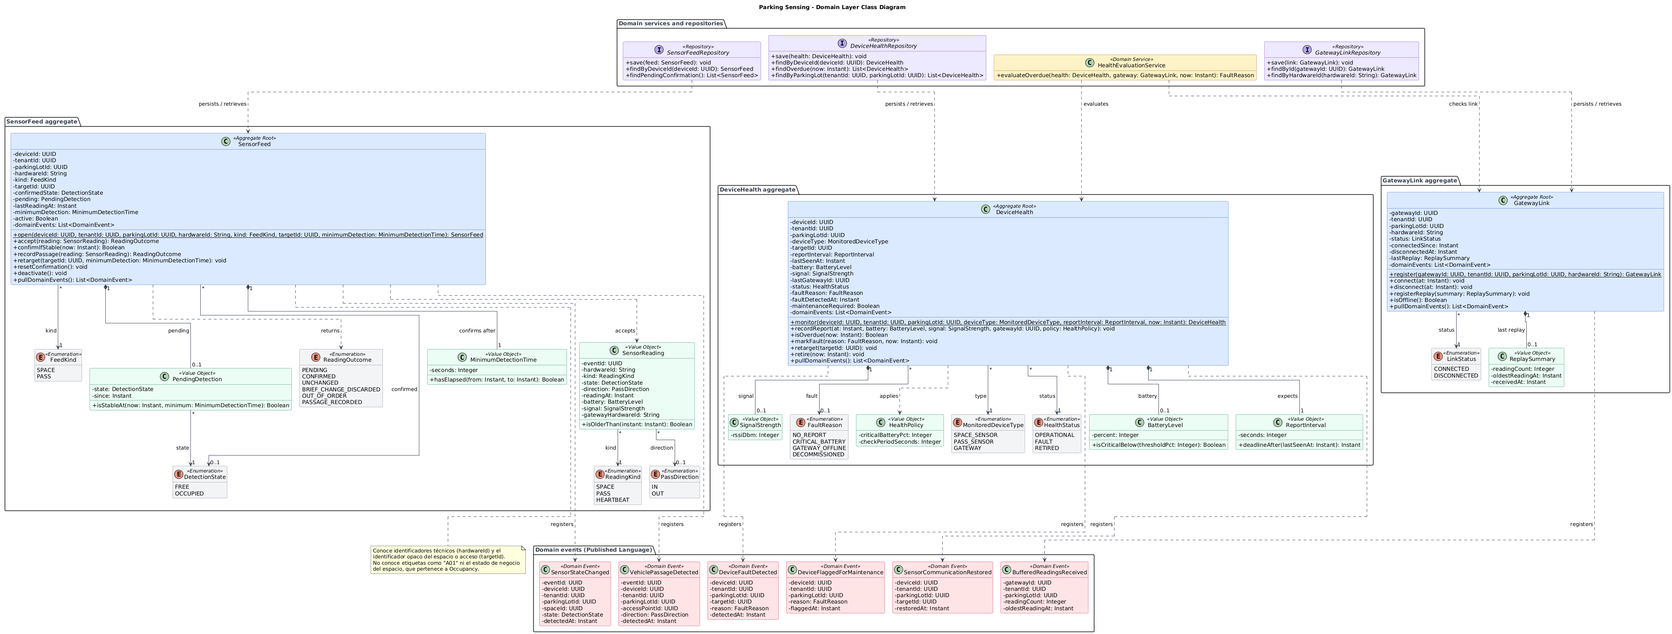
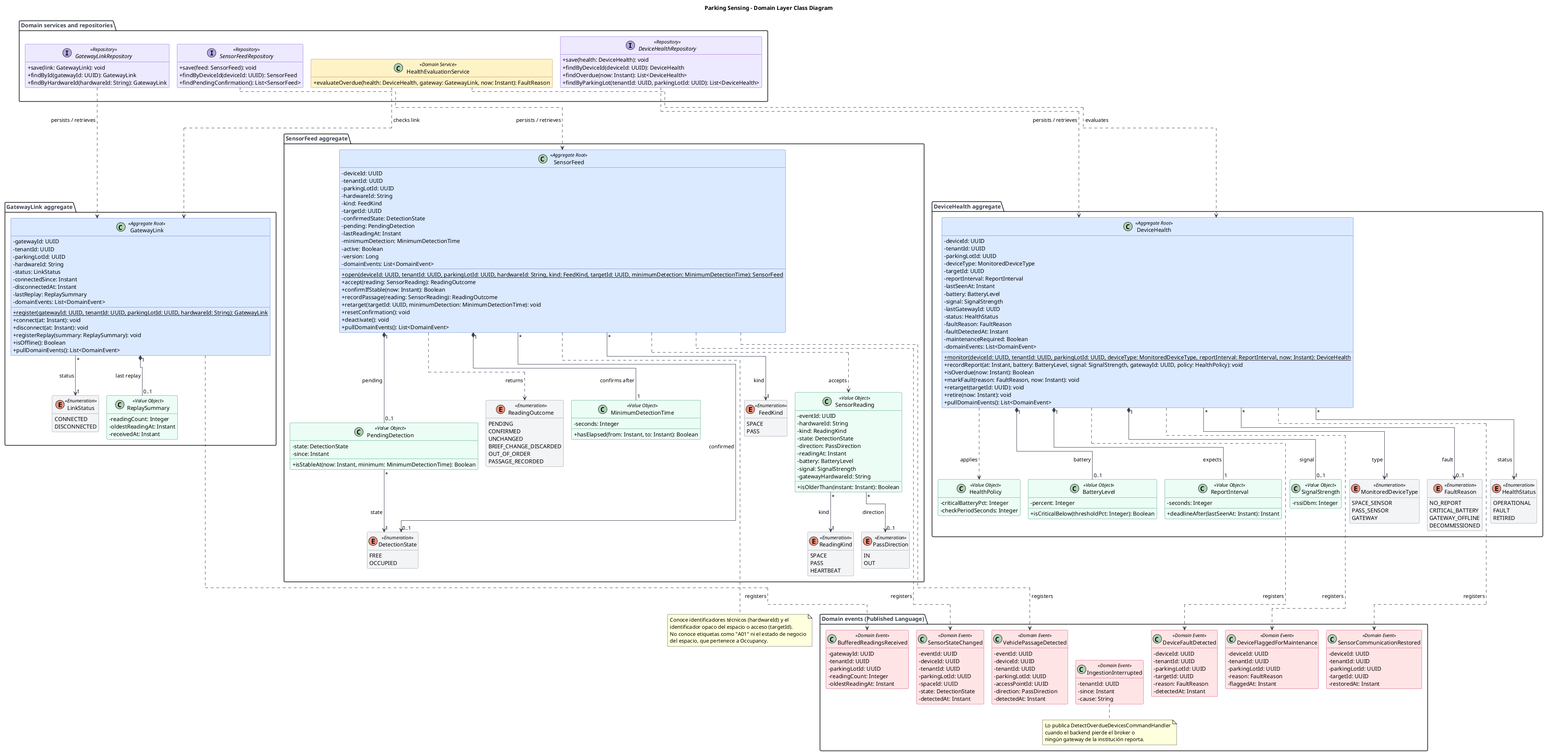
docs(chapter-05): make sensing ingestion durable and replica-safe

diff --git a/README.md b/README.md
@@ -3933,7 +3933,7 @@ El token viaja solo en el enlace del correo y en esta solicitud; IAM guarda úni
 
 |Nombre|Categoría|Evento|Descripción|
 |-|-|-|-|
-|AuditEventListener|Consumer (`@TransactionalEventListener`)|`AccessDenied` (IAM)|Ejecuta `AccessDeniedEventHandler` después de confirmar la transacción que contó el intento fallido.|
+|AuditEventListener|Consumer (`@ApplicationModuleListener`)|`AccessDenied` (IAM)|Ejecuta `AccessDeniedEventHandler` después de confirmar la transacción que contó el intento fallido.|
 
 La capa de seguridad del backend (Spring Security) valida el token, el rol y la institución antes de que la solicitud llegue al controlador (DD-08), de modo que IAM no queda en el camino de cada consulta de los demás módulos.
 
@@ -4037,7 +4037,7 @@ La Infrastructure Layer implementa los repositorios, la emisión de tokens, el c
 |HashingCodeHasher|Adapter (criptografía)|CodeHasher|`SecureRandom`, HMAC-SHA-256|Genera códigos y tokens aleatorios y calcula el hash de los códigos de un solo uso, de los tokens guardados y de los secretos de plataforma.|
 |EmailGatewayAdapter|Adapter (anti-corruption)|EmailSender|Cliente HTTP del servicio de correo, Resilience4j|Capa anticorrupción hacia el servicio de correo externo; aísla el modelo del proveedor del dominio y permite reemplazarlo (CON-03, CON-06). Si el proveedor falla, no se afecta la consulta de disponibilidad ni la predicción.|
 |PersistentAuditLog|Adapter (persistencia)|AuditLog|Spring Data JPA, PostgreSQL|Guarda en `audit_log` los accesos rechazados (401, 403 y 429), incluidos los `AccessDenied` del inicio de sesión, sin almacenar datos personales innecesarios.|
-|IamEventPublisherAdapter|Adapter (eventos)|IamEventPublisher|Eventos de aplicación de Spring|Publica los eventos de dominio; los consumidores, como el de `TenantProvisioned` en Parking Configuration, los reciben con `@TransactionalEventListener` después de confirmar la transacción.|
+|IamEventPublisherAdapter|Adapter (eventos)|IamEventPublisher|Eventos de aplicación de Spring, registro de publicación de Spring Modulith (outbox)|Publica los eventos de dominio; los consumidores, como el de `TenantProvisioned` en Parking Configuration, los reciben con `@ApplicationModuleListener` después de confirmar la transacción.|
 |SecurityFilterChain|Configuración transversal|—|Spring Security|Valida el JWT con las claves de `JwtTokenIssuer`, el rol y la institución antes de cada controlador del backend, y registra en `AuditLog` los rechazos 401 y 403 (DD-08).|
 
 **Consideraciones**
@@ -4402,7 +4402,7 @@ Methods
 
 |Nombre|Categoría|Evento|Descripción|
 |-|-|-|-|
-|TenantProvisionedListener|Consumer (`@TransactionalEventListener`)|`TenantProvisioned` (IAM)|Envía `InitializeTenantConfigurationCommand` para crear el calendario de la institución nueva (TS15, QAS-08).|
+|TenantProvisionedListener|Consumer (`@ApplicationModuleListener`)|`TenantProvisioned` (IAM)|Envía `InitializeTenantConfigurationCommand` para crear el calendario de la institución nueva (TS15, QAS-08).|
 
 ### 5.2.3. Application Layer
 
@@ -4488,7 +4488,7 @@ La Infrastructure Layer implementa los repositorios y la publicación de eventos
 |ParkingLotRepositoryAdapter|Repository (implementación)|ParkingLotRepository|Spring Data JPA, PostgreSQL|Guarda el agregado en `parking_lots`, `parking_zones`, `parking_spaces` y `access_points`, y cada versión publicada en `layout_versions`.|
 |DeviceRepositoryAdapter|Repository (implementación)|DeviceRepository|Spring Data JPA, PostgreSQL|Guarda el agregado en `devices` y su historial en `device_assignments`. Los índices únicos parciales impiden dos asociaciones activas para el mismo sensor o el mismo espacio, aun con solicitudes simultáneas.|
 |AcademicCalendarRepositoryAdapter|Repository (implementación)|AcademicCalendarRepository|Spring Data JPA, PostgreSQL|Guarda el agregado en `academic_calendars`, `academic_periods` y `campus_events`.|
-|ConfigurationEventPublisherAdapter|Adapter (eventos)|ConfigurationEventPublisher|Eventos de aplicación de Spring|Publica los eventos de dominio. Los consumidores los reciben con `@TransactionalEventListener` después de confirmar la transacción.|
+|ConfigurationEventPublisherAdapter|Adapter (eventos)|ConfigurationEventPublisher|Eventos de aplicación de Spring, registro de publicación de Spring Modulith (outbox)|Publica los eventos de dominio. Los consumidores los reciben con `@ApplicationModuleListener` después de confirmar la transacción.|
 |TenantFilterConfiguration|Configuración transversal|—|Filtro de Hibernate|Aplica `tenant_id` del token a toda consulta del esquema (CON-08, DD-09).|
 
 **Consideraciones**
@@ -4520,7 +4520,7 @@ El diagrama descompone el módulo Parking Configuration dentro del contenedor Qu
 | Device Inventory Controller | Interface | Registro, asociación, reemplazo y baja de dispositivos. | Spring MVC `@RestController` | DeviceInventoryController |
 | Academic Calendar Controller | Interface | Periodos académicos y eventos del campus. | Spring MVC `@RestController` | AcademicCalendarController |
 | Parking Configuration Facade | Interface | Open Host Service en proceso. | Spring bean | ParkingConfigurationFacade y las vistas `*View` |
-| Tenant Provisioned Listener | Interface | Recibe `TenantProvisioned`. | `@TransactionalEventListener` | TenantProvisionedListener |
+| Tenant Provisioned Listener | Interface | Recibe `TenantProvisioned`. | `@ApplicationModuleListener` | TenantProvisionedListener |
 | Configuration Command Handlers | Application | Casos de uso de escritura y el manejador de `TenantProvisioned`. | Spring `@Service` | Commands, Command Handlers y TenantProvisionedEventHandler |
 | Configuration Query Handlers | Application | Casos de uso de lectura. | Spring `@Service` | Queries y Query Handlers |
 | Configuration Aggregates | Domain | Mantienen las invariantes de cada agregado. | Java (dominio puro) | ParkingLot, Device, AcademicCalendar, sus entidades, Value Objects y enumeraciones |
@@ -4612,7 +4612,7 @@ La Domain Layer contiene las reglas que convierten lecturas en detecciones y rep
 
 |Nombre|Categoría|Descripción|
 |-|-|-|
-|SensorFeed|Aggregate Root|Flujo de lecturas de un sensor. En un sensor de cochera, confirma los cambios de estado que se mantienen el tiempo mínimo; en un sensor de paso, registra cada paso con su dirección. Su identidad es el `deviceId` del dispositivo.|
+|SensorFeed|Aggregate Root|Flujo de lecturas de un sensor. En un sensor de cochera, confirma los cambios de estado que se mantienen el tiempo mínimo; en un sensor de paso, registra cada paso con su dirección. Su identidad es el `deviceId` del dispositivo. Usa bloqueo optimista para que dos réplicas no lo modifiquen a la vez.|
 
 Attributes
 
@@ -4627,6 +4627,7 @@ Attributes
 |confirmedState|DetectionState?|Private|Último estado confirmado; vacío hasta la primera confirmación o tras una recuperación.|
 |pending|PendingDetection?|Private|Cambio en espera de cumplir el tiempo mínimo.|
 |lastReadingAt|Instant|Private|Marca de tiempo del dispositivo de la última lectura aplicada.|
+|version|Long|Private|Versión para el bloqueo optimista. Si dos réplicas modifican el mismo sensor a la vez, una falla, no confirma el mensaje y el broker se lo reentrega.|
 |minimumDetection|MinimumDetectionTime|Private|Tiempo mínimo de detección del estacionamiento, recibido en `ParkingLayoutProvided`.|
 |active|Boolean|Private|Falso cuando el dispositivo fue dado de baja o reemplazado.|
 |domainEvents|`List<DomainEvent>`|Private|Eventos de dominio pendientes de publicación.|
@@ -4766,6 +4767,7 @@ Methods
 |SensorStateChanged|eventId, deviceId, tenantId, parkingLotId, spaceId, state (FREE u OCCUPIED), detectedAt|Occupancy, que actualiza el estado del espacio.|
 |VehiclePassageDetected|eventId, deviceId, tenantId, parkingLotId, accessPointId, direction (IN u OUT), detectedAt|Occupancy, que registra el ingreso o la salida.|
 |DeviceFaultDetected|deviceId, tenantId, parkingLotId, targetId, reason, detectedAt|Occupancy, que marca el espacio como desconocido (UNKNOWN).|
+|IngestionInterrupted|tenantId, since, cause (BROKER_DISCONNECTED o NO_GATEWAY_REPORTS)|Notifications, que avisa una sola vez a los operadores y administradores de la institución.|
 |SensorCommunicationRestored|deviceId, tenantId, parkingLotId, targetId, restoredAt|Occupancy y la consola. El espacio deja de ser desconocido con la siguiente `SensorStateChanged`, no con este evento.|
 |DeviceFlaggedForMaintenance|deviceId, tenantId, parkingLotId, reason, flaggedAt|Consola de operación, mediante la fachada.|
 |BufferedReadingsReceived|gatewayId, tenantId, parkingLotId, readingCount, oldestReadingAt|Consola de operación, mediante la fachada.|
@@ -4778,12 +4780,14 @@ Methods
 2. Una lectura de un sensor sin espacio ni acceso asociado no genera eventos de dominio y registra una incidencia de mapeo (TS04, escenario 4).
 3. Un mensaje con formato inválido se aparta en el registro de rechazados y no genera eventos (TS04, escenario 2).
 4. Cada lectura se aplica una sola vez según su `eventId` (TS06, escenario 1).
-5. Una lectura con marca de tiempo anterior a la última aplicada del mismo sensor se descarta (TS06, escenario 2).
+5. En un sensor de cochera, una lectura con marca de tiempo anterior a la última aplicada se descarta, porque prevalece el último estado (TS06, escenario 2). En un sensor de paso esta regla no se aplica: cada pase cuenta y solo se descartan los duplicados por `eventId`.
 6. Un cambio de estado se confirma solo si se mantiene durante el tiempo mínimo de detección; un cambio más breve se descarta sin emitir eventos (TS06, escenarios 3 y 4).
 7. El contexto informa presencia y dirección, nunca la identidad del vehículo ni de su conductor (CON-16).
 8. Un dispositivo sin reporte dentro de su intervalo o con batería bajo el umbral pasa a falla y se marca para mantenimiento (TS10, QAS-05).
 9. Si el dispositivo no reporta porque su gateway está desconectado, se informa GATEWAY_OFFLINE y no se marca para mantenimiento.
 10. Un dispositivo en falla se recupera con un reporte válido; el espacio deja de ser desconocido solo con la siguiente detección estable (US20, escenarios 3 y 4).
+11. Una lectura sin una hora válida del dispositivo (anterior a su registro o más de 5 minutos adelantada respecto del servidor) se aparta en el registro de rechazados. El nodo publica solo después de sincronizar su hora por NTP con el gateway.
+12. Mientras el backend no está conectado al broker, o ningún gateway de la institución reporta, no se marcan dispositivos por vencimiento del intervalo: se informa una sola interrupción de la ingesta por institución.
 11. Las lecturas que el gateway retuvo durante una desconexión se procesan con las mismas reglas de orden y duplicidad (QAS-03).
 12. El contexto no calcula ocupación ni disponibilidad, y no decide el estado UNKNOWN de un espacio.
 
@@ -4795,7 +4799,7 @@ La Interface Layer recibe las lecturas del broker MQTT, atiende las consultas de
 
 |Nombre|Categoría|Descripción|
 |-|-|-|
-|MqttInboundListener|Consumer (MQTT)|Recibe las lecturas y el estado de los gateways. Confirma cada mensaje al broker solo después de que su transacción se guardó, por lo que un fallo provoca la reentrega y no la pérdida (TS05).|
+|MqttInboundListener|Consumer (MQTT)|Recibe las lecturas y el estado de los gateways. Confirma cada mensaje al broker solo después de que su transacción se guardó, por lo que un fallo provoca la reentrega y no la pérdida (TS05). Si el procesamiento falla por un motivo distinto del formato, lo reintenta hasta 3 veces; si sigue fallando, guarda el mensaje como rechazado, registra la incidencia y lo confirma, para no bloquear la entrega de los siguientes.|
 
 Attributes
 
@@ -4895,17 +4899,18 @@ La Application Layer coordina el procesamiento de lecturas, la vigilancia de la 
 
 `ProcessSensorReadingCommandHandler`:
 
-1. Registra el `eventId` en `ReadingDeduplicationStore`; si ya existía, descarta la lectura (TS06, escenario 1).
+1. Registra el `eventId` en `ReadingDeduplicationStore`, dentro de la misma transacción que el resto del procesamiento; si ya existía, descarta la lectura (TS06, escenario 1).
 2. Resuelve el dispositivo con `DeviceDirectory`. Si no existe o fue dado de baja, registra la incidencia y termina (TS04, escenario 3). Si no tiene destino, registra la incidencia de mapeo y termina (TS04, escenario 4).
 3. Carga o abre el `SensorFeed` y aplica `accept`. Si la lectura está fuera de orden, termina (TS06, escenario 2).
 4. Registra el reporte en `DeviceHealth`, lo que puede publicar `SensorCommunicationRestored` y reiniciar la confirmación del flujo.
-5. Guarda todo en una transacción. Los eventos (`SensorStateChanged` si hubo confirmación) se publican al confirmarla, y recién entonces el listener confirma el mensaje al broker.
+5. Guarda todo en una transacción. Los eventos (`SensorStateChanged` si hubo confirmación) se guardan en el registro de publicación de Spring Modulith dentro de esa misma transacción, y recién después de confirmarla el listener confirma el mensaje al broker. Si el proceso cae antes de entregar el evento, Spring Modulith lo vuelve a publicar al reiniciar; si cae antes de confirmar el mensaje, el broker lo reentrega y se descarta como duplicado sin perder el evento.
 
 `DetectOverdueDevicesCommandHandler`:
 
-1. Obtiene los dispositivos operativos cuyo intervalo de reporte venció.
-2. Para cada uno, carga el `GatewayLink` de su último gateway y obtiene el motivo con `HealthEvaluationService.evaluateOverdue`.
-3. Marca la falla, guarda y publica `DeviceFaultDetected` y, si corresponde, `DeviceFlaggedForMaintenance`. Con una revisión cada 30 s, la falla se informa en 1 min o menos (QAS-05).
+1. Si el backend no está conectado al broker, o ningún gateway de una institución reportó durante el último intervalo, no evalúa sus dispositivos: publica una sola vez `IngestionInterrupted` para esa institución y continúa con las demás (regla 12).
+2. Obtiene los dispositivos operativos cuyo intervalo de reporte venció.
+3. Para cada uno, carga el `GatewayLink` de su último gateway y obtiene el motivo con `HealthEvaluationService.evaluateOverdue`.
+4. Marca la falla, guarda y publica `DeviceFaultDetected` y, si corresponde, `DeviceFlaggedForMaintenance`. Con una revisión cada 30 s, la falla se informa en 1 min o menos (QAS-05).
 
 **Puertos de salida**
 
@@ -4925,20 +4930,21 @@ La Infrastructure Layer contiene la conexión con el broker, la traducción de l
 
 |Nombre|Categoría|Implementa|Tecnología|Descripción|
 |-|-|-|-|-|
-|MqttInboundConfiguration|Configuración de mensajería|—|Spring Integration MQTT, cliente MQTT v5|Conexión TLS con el broker, sesión persistente (sin inicio limpio y con expiración de sesión) y QoS 1, para recibir también lo publicado durante una desconexión (TS05, escenario 3). Usa una suscripción compartida (`$share/sensing/…`) para que cada mensaje lo procese una sola réplica (QAS-04), y confirmación manual tras guardar.|
+|MqttInboundConfiguration|Configuración de mensajería|—|Spring Integration MQTT, cliente MQTT v5|Conexión TLS con el broker, sesión persistente (sin inicio limpio y con expiración de sesión) y QoS 1, para recibir también lo publicado durante una desconexión (TS05, escenario 3). Usa una suscripción compartida (`$share/sensing/…`) para que cada mensaje lo procese una sola réplica (QAS-04), y confirmación manual tras guardar. Expone el estado de la conexión, que consulta `DetectOverdueDevicesCommandHandler` (regla 12).|
 |SensorReadingTranslator|Adapter (anti-corruption)|—|Jackson, Bean Validation|Valida el JSON (campos obligatorios, tipos, valores permitidos) y lo traduce a `SensorReading`. Es el único componente que conoce el formato del gateway: otra tecnología de sensado solo requiere otro traductor (CON-16).|
 |SensorFeedRepositoryAdapter, DeviceHealthRepositoryAdapter, GatewayLinkRepositoryAdapter|Repository (implementación)|Repositorios del dominio|Spring Data JPA, PostgreSQL|Persisten los agregados con bloqueo optimista (`version`), para que dos lecturas simultáneas del mismo sensor no se sobrescriban.|
-|JdbcReadingDeduplicationStore|Adapter (persistencia)|ReadingDeduplicationStore|JDBC, PostgreSQL|`INSERT … ON CONFLICT DO NOTHING` sobre `processed_readings`; un proceso diario elimina las filas con más de 7 días.|
+|JdbcReadingDeduplicationStore|Adapter (persistencia)|ReadingDeduplicationStore|JDBC, PostgreSQL|`INSERT … ON CONFLICT DO NOTHING` sobre `processed_readings`; un proceso diario elimina las filas con más de 7 días. Esa retención supera la autonomía de 24 horas del gateway, de modo que ningún reenvío tardío se procesa dos veces.|
 |JpaIncidentLog, JpaRejectedReadingStore|Adapter (persistencia)|IncidentLog, RejectedReadingStore|Spring Data JPA|Guardan incidencias y mensajes rechazados.|
-|DeviceDirectoryAdapter|Adapter (anti-corruption)|DeviceDirectory|Llamada en proceso a `ParkingConfigurationFacade`, caché Caffeine|Consulta `resolveDevice` y guarda el resultado en caché; los eventos de Parking Configuration invalidan las entradas afectadas.|
-|SensingEventPublisherAdapter|Adapter (eventos)|SensingEventPublisher|Eventos de aplicación de Spring|Publica los eventos de dominio; Occupancy los recibe con `@TransactionalEventListener` después de confirmar la transacción.|
+|DeviceDirectoryAdapter|Adapter (anti-corruption)|DeviceDirectory|Llamada en proceso a `ParkingConfigurationFacade`, caché Caffeine|Consulta `resolveDevice` y guarda el resultado en caché; los eventos de Parking Configuration invalidan las entradas afectadas en todas las réplicas mediante un mensaje por Redis pub/sub, y cada entrada vence a los 60 s como respaldo.|
+|SensingEventPublisherAdapter|Adapter (eventos)|SensingEventPublisher|Eventos de aplicación de Spring, registro de publicación de Spring Modulith (outbox)|Guarda los eventos de dominio en el registro de publicación dentro de la misma transacción; Occupancy los recibe con `@ApplicationModuleListener` después de confirmarla, y los pendientes se vuelven a publicar al reiniciar.|
 
 **Consideraciones**
 
 |Tema|Decisión|
 |-|-|
-|Entrega de mensajes|Al menos una vez: el broker reentrega todo mensaje no confirmado y el contexto descarta los duplicados por `eventId`. Así se cumple 0 % de lecturas perdidas sin procesar ninguna dos veces (QAS-03, DD-02, DD-03).|
-|Seguridad|Los sensores no se exponen a internet; solo el gateway abre una conexión saliente al broker con credenciales propias y permisos limitados a su prefijo de tópico (CON-05).|
+|Entrega de mensajes|Al menos una vez: el broker reentrega todo mensaje no confirmado y el contexto descarta los duplicados por `eventId`. Así se cumple 0 % de lecturas perdidas sin procesar ninguna dos veces (QAS-03, DD-02, DD-03). Los eventos de dominio tampoco se pierden, porque se guardan en el registro de publicación de Spring Modulith en la misma transacción (outbox).|
+|Seguridad|Los sensores no se exponen a internet; solo el gateway abre una conexión saliente al broker con credenciales propias y permisos limitados a su prefijo de tópico (CON-05). La credencial se crea al registrar el gateway (US32) con el plugin de seguridad dinámica de Mosquitto; en el prototipo es un paso manual documentado. La credencial del backend solo puede suscribirse, y en la red del campus cada nodo tiene su propia credencial en el broker del gateway.|
+|Observabilidad|Micrometer registra la latencia entre la hora del sensor, la recepción y el guardado, y cuenta las lecturas rechazadas y reintentadas. Junto con la latencia de Occupancy hasta el envío por WebSocket, demuestra QAS-02.|
 |Propiedad de datos|Este contexto es el único que escribe en el esquema `sensing`. Obtiene el inventario de Parking Configuration mediante su fachada y sus eventos, nunca leyendo sus tablas.|
 |Multi-tenancy|`tenant_id` se guarda en todas las tablas con datos de una institución. Las consultas de la consola filtran por el tenant del token.|
 |Tecnología|Módulo del monolito modular en Java 25 y Spring Boot 4, con el esquema `sensing` de PostgreSQL, según DD-01.|
@@ -4964,7 +4970,7 @@ El diagrama descompone el módulo Parking Sensing dentro del contenedor Quadrapp
 | Device Health Controller | Interface | Consultas de salud e incidencias. | Spring MVC `@RestController` | DeviceHealthController |
 | Parking Sensing Facade | Interface | Resumen de salud para la consola. | Spring bean | ParkingSensingFacade |
 | Sensing Schedulers | Interface | Confirmación de detecciones y revisión de intervalos. | Spring `@Scheduled` | SensingSchedulers |
-| Configuration Event Listener | Interface | Cambios del inventario y del layout. | `@TransactionalEventListener` | ConfigurationEventListener |
+| Configuration Event Listener | Interface | Cambios del inventario y del layout. | `@ApplicationModuleListener` | ConfigurationEventListener |
 | Sensing Command Handlers | Application | Procesamiento de lecturas y vigilancia. | Spring `@Service` | Commands, Command Handlers y Event Handlers |
 | Sensing Query Handlers | Application | Consultas de salud e incidencias. | Spring `@Service` | Queries y Query Handlers |
 | Sensing Aggregates | Domain | Reglas de detección y de salud. | Java (dominio puro) | SensorFeed, DeviceHealth, GatewayLink, HealthEvaluationService, Value Objects y enumeraciones |
@@ -5323,7 +5329,7 @@ La Infrastructure Layer implementa la persistencia, el read model, la difusión 
 |RedisAvailabilityReadModel|Adapter (read model)|AvailabilityReadModel|Spring Data Redis, Redis Pub/Sub|Guarda la disponibilidad por estacionamiento y zona y el estado de los espacios. Publica cada cambio en un canal de Redis para que todas las réplicas lo entreguen a sus clientes conectados (QAS-04).|
 |StompRealtimeConfiguration|Configuración de mensajería|—|Spring WebSocket, STOMP|Expone el endpoint de suscripción y entrega a cada cliente los cambios recibidos del canal de Redis.|
 |ConfigurationLayoutReaderAdapter|Adapter (anti-corruption)|LayoutReader|Llamada en proceso a `ParkingConfigurationFacade`|Traduce el layout publicado al modelo de Occupancy.|
-|OccupancyEventPublisherAdapter|Adapter (eventos)|OccupancyEventPublisher|Eventos de aplicación de Spring|Publica los eventos; Analytics los recibe con `@TransactionalEventListener` después de confirmar la transacción.|
+|OccupancyEventPublisherAdapter|Adapter (eventos)|OccupancyEventPublisher|Eventos de aplicación de Spring, registro de publicación de Spring Modulith (outbox)|Publica los eventos; Analytics los recibe con `@ApplicationModuleListener` después de confirmar la transacción.|
 
 **Consideraciones**
 
@@ -5354,8 +5360,8 @@ El diagrama descompone el módulo Occupancy dentro del contenedor Quadrapp Backe
 | Occupancy Query Controller | Interface | Disponibilidad, estado de los espacios y flujo. | Spring MVC `@RestController` | OccupancyQueryController |
 | Occupancy Realtime Endpoint | Interface | Suscripción a los cambios de un estacionamiento. | Spring WebSocket, STOMP | OccupancyRealtimeEndpoint, StompRealtimeConfiguration |
 | Occupancy Facade | Interface | Open Host Service en proceso. | Spring bean | OccupancyFacade y las vistas `*View` |
-| Sensing Event Listener | Interface | Capa anticorrupción de los eventos de Parking Sensing. | `@TransactionalEventListener` | SensingEventListener |
-| Layout Event Listener | Interface | Recibe `ParkingLayoutProvided`. | `@TransactionalEventListener` | LayoutEventListener |
+| Sensing Event Listener | Interface | Capa anticorrupción de los eventos de Parking Sensing. | `@ApplicationModuleListener` | SensingEventListener |
+| Layout Event Listener | Interface | Recibe `ParkingLayoutProvided`. | `@ApplicationModuleListener` | LayoutEventListener |
 | Occupancy Schedulers | Interface | Reconciliación e historial por minuto. | Spring `@Scheduled` | OccupancySchedulers |
 | Occupancy Command Handlers | Application | Casos de uso de escritura y Event Handlers. | Spring `@Service` | Commands, Command Handlers y Event Handlers |
 | Occupancy Query Handlers | Application | Casos de uso de lectura. | Spring `@Service` | Queries y Query Handlers |
@@ -5960,7 +5966,7 @@ Cada estacionamiento se procesa de forma aislada: un fallo se registra y no deti
 
 |Nombre|Categoría|Descripción|
 |-|-|-|
-|CampusEventListener|Consumer (`@TransactionalEventListener`)|Recibe los eventos del calendario que publica Parking Configuration y los entrega a `CampusEventChangedEventHandler`.|
+|CampusEventListener|Consumer (`@ApplicationModuleListener`)|Recibe los eventos del calendario que publica Parking Configuration y los entrega a `CampusEventChangedEventHandler`.|
 
 Methods
 
@@ -6076,7 +6082,7 @@ La Infrastructure Layer contiene las implementaciones técnicas que almacenan pr
 |OccupancyReaderAdapter|Adapter (anti-corruption)|OccupancyReader|Llamada en proceso a la fachada de Occupancy|Lee los datos de ocupación.|
 |ParkingLotSettingsReaderAdapter|Adapter (anti-corruption)|ParkingLotSettingsReader|Llamada en proceso a la fachada de Parking Configuration (Open Host Service)|Lee la configuración del estacionamiento.|
 |PredictionModelClient|Adapter (cliente del modelo)|PredictionModelPort|Cliente HTTP, Resilience4j|Invoca al modelo y traduce su respuesta a `ModelPrediction`.|
-|ForecastEventPublisherAdapter|Adapter (eventos)|ForecastEventPublisher|Eventos de aplicación de Spring|Publica `ForecastGenerated` y `SaturationPredicted` tras confirmar la transacción.|
+|ForecastEventPublisherAdapter|Adapter (eventos)|ForecastEventPublisher|Eventos de aplicación de Spring, registro de publicación de Spring Modulith (outbox)|Publica `ForecastGenerated` y `SaturationPredicted` tras confirmar la transacción.|
 
 
 **Consideraciones**
@@ -6109,7 +6115,7 @@ El diagrama descompone el módulo Prediction & Advisory dentro del contenedor Qu
 | Arrival Advice Controller | Interface | Recibe `lotId` y `etaMinutes`. | Spring MVC `@RestController` | ArrivalAdviceController, ArrivalAdviceRequest, ArrivalAdviceResponse |
 | Prediction Advisory Facade | Interface | Punto de entrada de los casos de uso para los controladores REST. | Spring bean | PredictionAdvisoryFacade |
 | Forecast Scheduler | Interface | Dispara la generación periódica. | Spring `@Scheduled` | ForecastScheduler |
-| Campus Event Listener | Interface | Recibe los eventos del campus y solicita la regeneración. | `@TransactionalEventListener` | CampusEventListener, CampusEventChangedEventHandler |
+| Campus Event Listener | Interface | Recibe los eventos del campus y solicita la regeneración. | `@ApplicationModuleListener` | CampusEventListener, CampusEventChangedEventHandler |
 | Query Handlers | Application | Casos de uso de consulta. | Spring `@Service` | GetForecast, GetForecasts, GetArrivalAdvice y GetNextAvailability (Query y Handler) |
 | Command Handlers | Application | Caso de uso de comando: generar pronósticos. | Spring `@Service` | GenerateForecastsCommand y GenerateForecastsCommandHandler |
 | Advisory Domain Service | Domain | Deriva la asesoría y la próxima disponibilidad. | Java (dominio puro) | AdvisoryDomainService, ArrivalAdvice, NextAvailability, AdvisoryPolicy |
@@ -6998,7 +7004,7 @@ Los componentes principales son:
 
 El flujo principal comienza cuando un administrador realiza una consulta desde la consola web, a través del módulo de composición. La solicitud ingresa por Analytics Query API, pasa a Analytics Application, utiliza las reglas de Analytics Domain y accede a los datos mediante Analytics Persistence.
 
-Por otro lado, los eventos de Occupancy y los pronósticos de Prediction & Advisory llegan como eventos de aplicación de Spring dentro del mismo backend. Los consumidores (`@TransactionalEventListener`) los reciben después de que el módulo emisor confirma su transacción, y los componentes de integración los traducen al modelo de Analytics antes de procesarlos en Analytics Application, de acuerdo con la relación Conformist del Context Map.
+Por otro lado, los eventos de Occupancy y los pronósticos de Prediction & Advisory llegan como eventos de aplicación de Spring dentro del mismo backend. Los consumidores (`@ApplicationModuleListener`) los reciben después de que el módulo emisor confirma su transacción, y los componentes de integración los traducen al modelo de Analytics antes de procesarlos en Analytics Application, de acuerdo con la relación Conformist del Context Map.
 
 De esta manera, Analytics mantiene sus responsabilidades y su persistencia separadas de los demás Bounded Contexts.
 
@@ -7530,7 +7536,7 @@ La Interface Layer expone las capacidades de Notifications a la aplicación móv
 
 |Nombre|Categoría|Evento|Descripción|
 |-|-|-|-|
-|PredictionEventConsumer|Consumer (`@TransactionalEventListener`)|`SaturationPredicted` (Prediction & Advisory)|Recibe el evento después de que Prediction & Advisory confirma su transacción y ejecuta `SaturationPredictedEventHandler` (mapa de contextos, US23).|
+|PredictionEventConsumer|Consumer (`@ApplicationModuleListener`)|`SaturationPredicted` (Prediction & Advisory)|Recibe el evento después de que Prediction & Advisory confirma su transacción y ejecuta `SaturationPredictedEventHandler` (mapa de contextos, US23).|
 
 **Proceso programado: NotificationRetryScheduler**
 
@@ -7627,7 +7633,7 @@ La Infrastructure Layer implementa los repositorios, las capas anticorrupción h
 |PushGatewayAdapter|Adapter (anti-corruption)|PushSender|Cliente HTTP del proveedor push, Resilience4j|Capa anticorrupción hacia el proveedor de mensajería push. Traduce la notificación del dominio al formato del proveedor, interpreta sus respuestas (por ejemplo, token rechazado) y aplica timeout y circuit breaker (DD-07, CON-06).|
 |EmailGatewayAdapter|Adapter (anti-corruption)|EmailSender|Cliente HTTP del servicio de correo, Resilience4j|Capa anticorrupción hacia el servicio de correo, con timeout y circuit breaker propios.|
 |IdentityContextAdapter|Adapter (anti-corruption)|IdentityContext|Spring Security|Traduce `UserIdentityProvided` (usuario, institución y rol del token) al modelo local, sin consultar la base de IAM (CON-02).|
-|NotificationEventPublisherAdapter|Adapter (eventos)|NotificationEventPublisher|Eventos de aplicación de Spring|Publica los eventos propios del contexto después de confirmar la transacción.|
+|NotificationEventPublisherAdapter|Adapter (eventos)|NotificationEventPublisher|Eventos de aplicación de Spring, registro de publicación de Spring Modulith (outbox)|Publica los eventos propios del contexto después de confirmar la transacción.|
 
 **Consideraciones**
 
